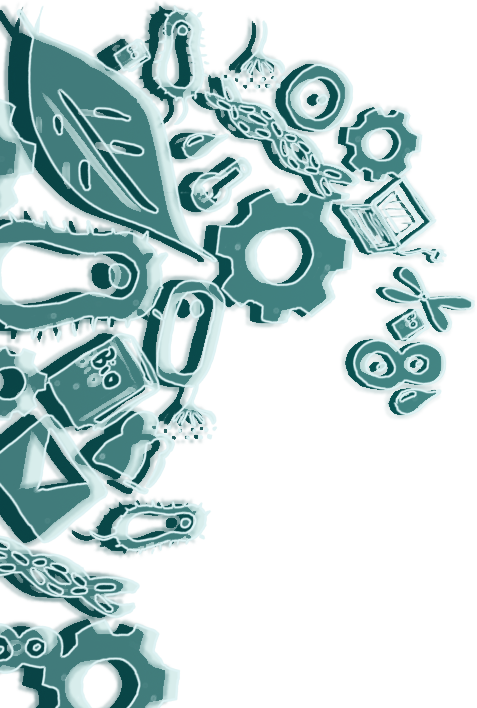
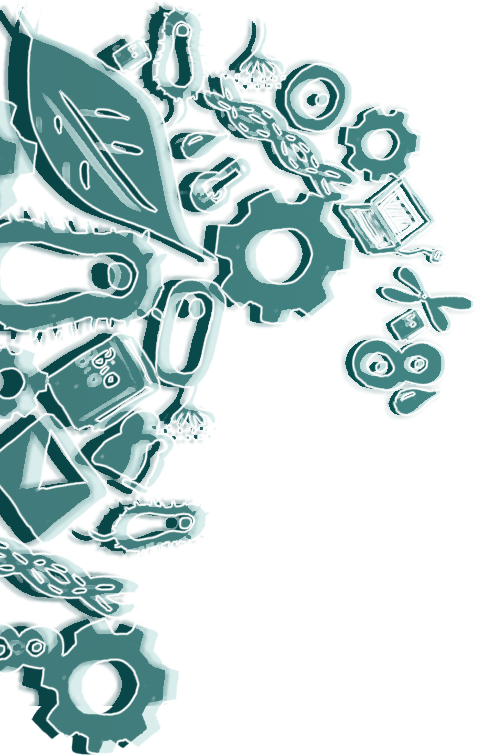
fix bugs and modify login view

diff --git a/project/Python27/web/static/js/regulation/graphiti.js b/project/Python27/web/static/js/regulation/graphiti.js
@@ -491,6 +491,18 @@ g.Shapes.R = graphiti.shape.icon.R.extend({
         }
 
         this.TYPE = "R";
+        // Buttons
+        this.remove = new g.Buttons.Remove();
+    },
+
+    onClick: function() {
+        g.toolbar(this);
+    },
+
+    onDoubleClick: function() {
+        if (this.remove || this.label) {
+            this.resetChildren();
+        }
     }
 });
 
@@ -1235,7 +1247,7 @@ g.Buttons.Unbind = graphiti.shape.icon.CoExpress.extend({
                 "display": "block"
             });
 
-        } else if (ctx.TYPE == "RORA") {
+        } else if (ctx.TYPE == "RORA" || ctx.TYPE == "R" || ctx.TYPE == "A") {
             for (var i = 0; i < canvas.collection.length; i++) {
                 var figure = canvas.getFigure(canvas.collection[i]);
                 if (figure !== null && ctx.getId() !== figure.getId() && figure.TYPE == "Protein") {

diff --git a/project/Python27/web/static/js/regulation/biobrickAdder.js b/project/Python27/web/static/js/regulation/biobrickAdder.js
@@ -63,7 +63,10 @@ BiobrickAdder.prototype = {
 
 		figure.name = this.name;	// 设置id
 		figure.nickname = this.nickname;
-		figure.label.setText(this.name);
+
+		if (this.type == "Protein") {
+			figure.label.setText(this.name);
+		}
 
 		if (this.config)
 			figure.config = this.config;

diff --git a/project/Python27/web/static/css/login.css b/project/Python27/web/static/css/login.css
@@ -25,7 +25,6 @@ body {
 	top: 0;
 	width: 477px;
 	height: 100%;
-	max-height: 708px;
 	background-image: url(../img/login/leftbg.png);
 }
 
@@ -35,7 +34,6 @@ body {
 	right: 0;
 	width: 452px;
 	height: 100%;
-	max-height: 708px;
 	background-image: url(../img/login/rightbg.png);
 }
 
